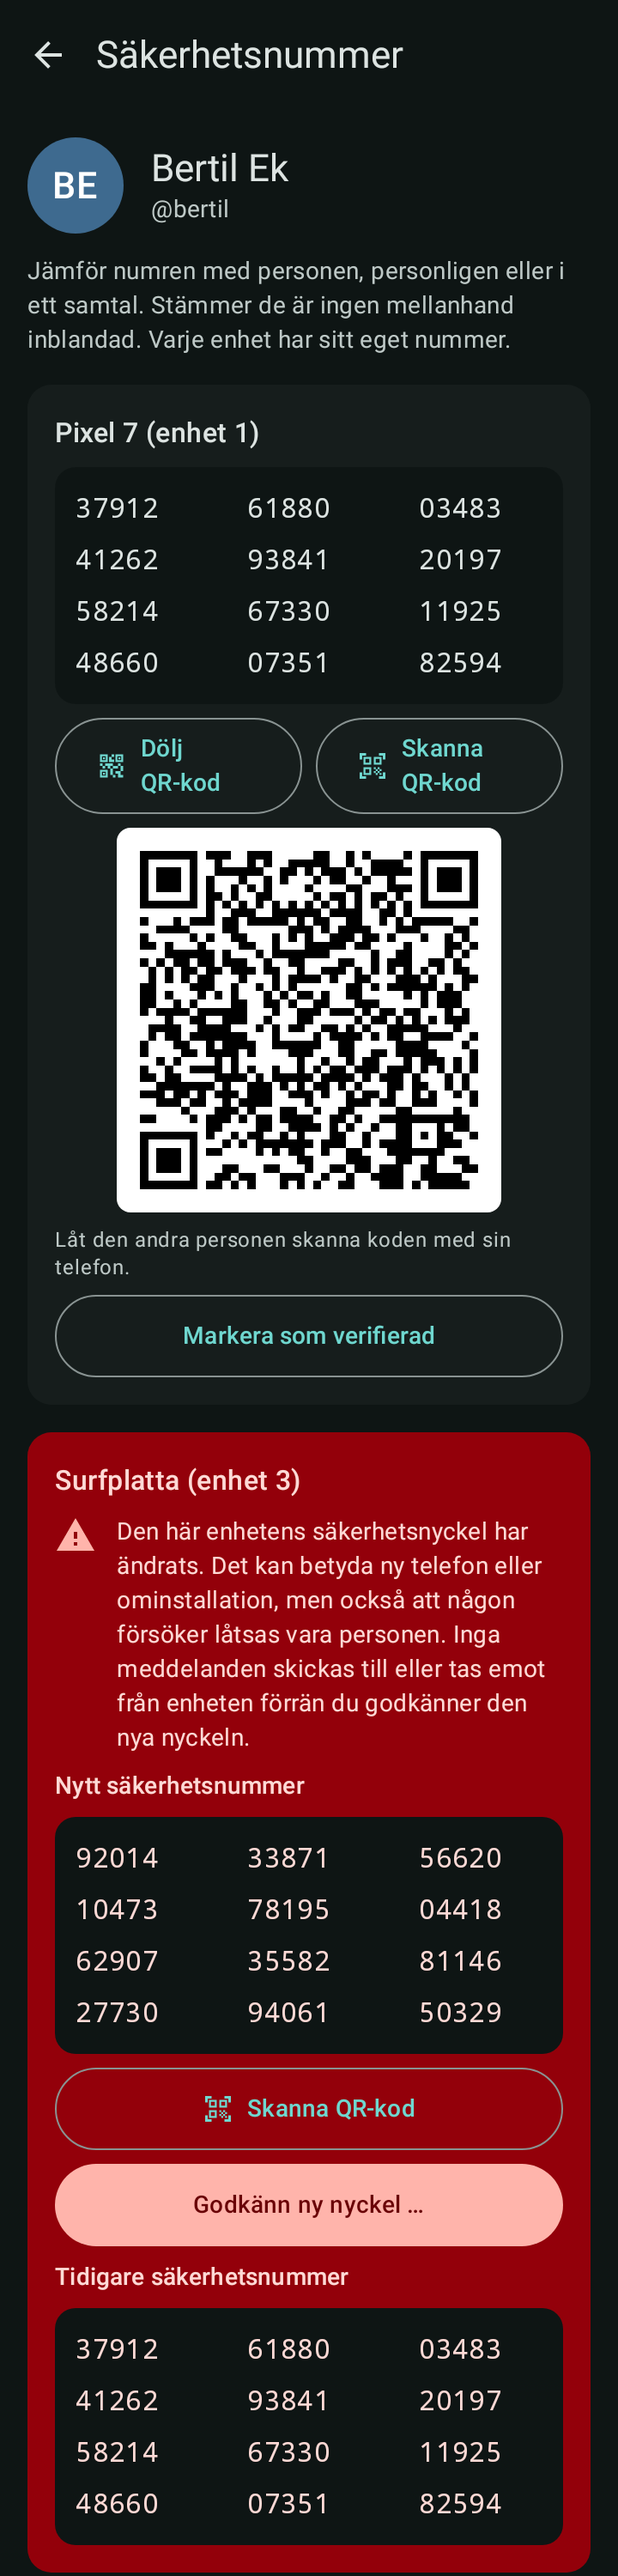
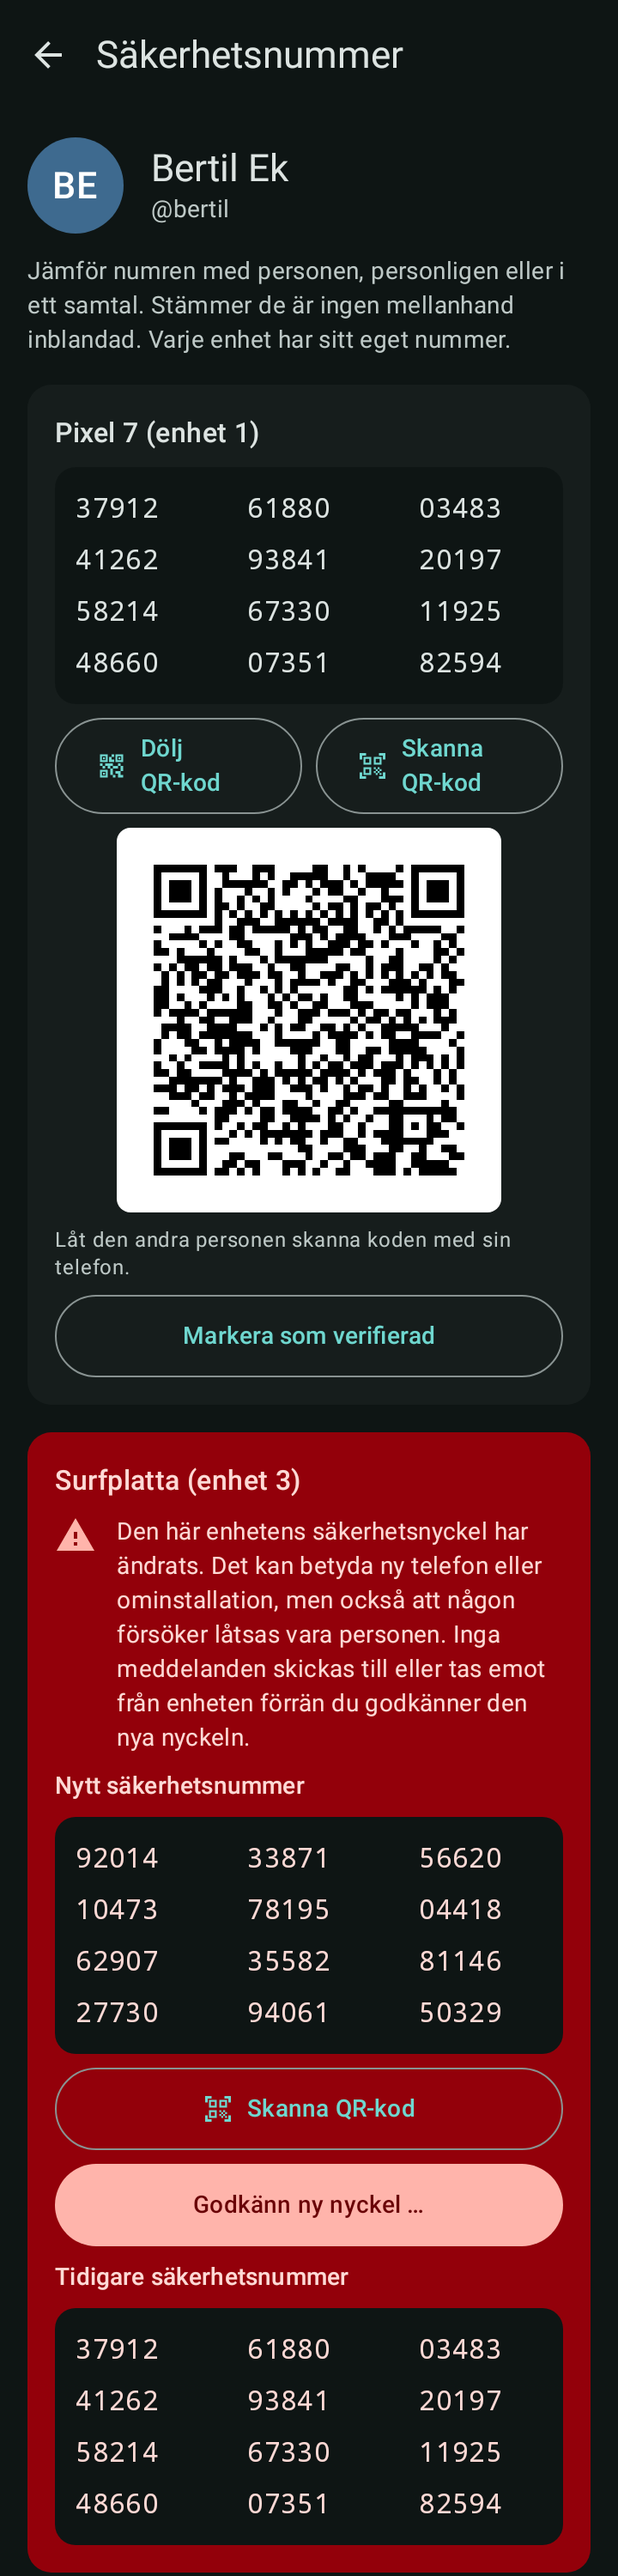
familychat android: make every generated QR code readable
zxing chose a mask for some payloads that its own detector cannot find (about one random
safety-number code in six). Decode each generated code once and fall back to the other masks;
use the spec quiet zone of 4 modules. Adds a stress test over 100 random safety numbers.

Claude-Session: https://claude.ai/code/session_018SvhjQJsNUbGA3gquiArH2

Changed region(s): [[0.2139, 0.31, 0.7944, 0.465]]

diff --git a/familychat/android/app/src/main/kotlin/se/familychat/app/qr/QrCode.kt b/familychat/android/app/src/main/kotlin/se/familychat/app/qr/QrCode.kt
@@ -18,18 +18,49 @@ import com.google.zxing.qrcode.decoder.ErrorCorrectionLevel
  * versioned text format ([SafetyQr], [InviteQr]) because binary QR payloads are decoded with a guessed charset.
  */
 object QrCode {
-    /** Quiet zone in modules; the spec asks for 4, 2 still scans well and keeps the code large on a small screen. */
-    private const val QUIET_ZONE = 2
+    /** Quiet zone in modules, as the QR spec asks (cameras need the margin). */
+    private const val QUIET_ZONE = 4
 
-    /** The modules of the QR code for [text] (true = dark), including the quiet zone. */
-    fun matrix(text: String): BitMatrix = QRCodeWriter().encode(
-        text, BarcodeFormat.QR_CODE, 0, 0,
-        mapOf(
+    /**
+     * The modules of the QR code for [text] (true = dark), including the quiet zone.
+     *
+     * zxing picks the mask by its penalty score, and for some payloads that mask leaves data that its own detector
+     * takes for finder patterns, so the code cannot be read (about one random safety-number code in six). Every code
+     * is therefore decoded once here, and if that fails the other masks are tried in turn.
+     */
+    fun matrix(text: String): BitMatrix {
+        val chosen = encode(text, mask = null)
+        if (readable(chosen, text)) return chosen
+        for (mask in 0 until MASK_PATTERNS) {
+            val m = encode(text, mask)
+            if (readable(m, text)) return m
+        }
+        return chosen
+    }
+
+    private const val MASK_PATTERNS = 8
+
+    private fun encode(text: String, mask: Int?): BitMatrix {
+        val hints = mutableMapOf<EncodeHintType, Any>(
             EncodeHintType.ERROR_CORRECTION to ErrorCorrectionLevel.M,
             EncodeHintType.CHARACTER_SET to "UTF-8",
             EncodeHintType.MARGIN to QUIET_ZONE,
-        ),
-    )
+        )
+        if (mask != null) hints[EncodeHintType.QR_MASK_PATTERN] = mask
+        return QRCodeWriter().encode(text, BarcodeFormat.QR_CODE, 0, 0, hints)
+    }
+
+    /** Whether zxing reads [m] back as [text], rendered at 4 pixels per module. */
+    private fun readable(m: BitMatrix, text: String): Boolean {
+        val scale = 4
+        val w = m.width * scale
+        val h = m.height * scale
+        val pixels = IntArray(w * h) { i -> if (m.get(i % w / scale, i / w / scale)) BLACK else WHITE }
+        return decode(RGBLuminanceSource(w, h, pixels)) == text
+    }
+
+    private const val BLACK = 0xFF000000.toInt()
+    private const val WHITE = 0xFFFFFFFF.toInt()
 
     /**
      * A black and white bitmap of the QR code for [text], [moduleSize] pixels per module. Black on white whatever the app

diff --git a/familychat/android/app/src/test/kotlin/se/familychat/app/qr/QrCodeTest.kt b/familychat/android/app/src/test/kotlin/se/familychat/app/qr/QrCodeTest.kt
@@ -59,6 +59,14 @@ class QrCodeTest {
         )
     }
 
+    @Test fun `every safety number code decodes, not just a lucky one`() {
+        // Payloads depend on random keys; a weak layout (too small a quiet zone) failed for some of them.
+        repeat(STRESS_PAIRS) {
+            val payload = SafetyQr.payload(number(Phone("a"), Phone("b")))
+            assertEquals(payload, QrCode.decode(QrCode.bitmap(payload)))
+        }
+    }
+
     @Test fun `scans that are not safety number codes are recognised`() {
         val n = number(anna, bertil)
         assertEquals(SafetyQr.ScanResult.NOT_A_SAFETY_CODE, SafetyQr.compare(n, "familychat://invite?v=1"))
@@ -76,5 +84,9 @@ class QrCodeTest {
         assertEquals(true, p.startsWith("fcsn1:"))
         assertEquals(true, p.length < 200)
         assertEquals(true, p.all { it.isLetterOrDigit() || it == ':' || it == '-' || it == '_' })
+    }
+
+    private companion object {
+        const val STRESS_PAIRS = 100
     }
 }
